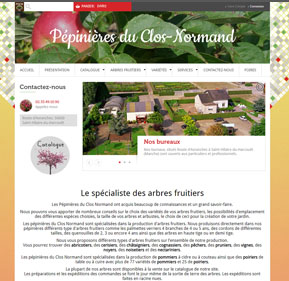
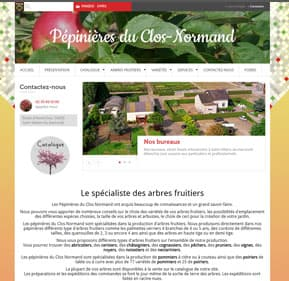
fix: Added Webp sources + compressed images

diff --git a/index.html b/index.html
@@ -99,7 +99,11 @@
     <div class="widget-area">
       <aside class="widget widget-profile">
         <div class="profile-photo">
-          <img src="img/uploads/logo-zenoo-wide.png" alt="Franck Demoute" />
+          <picture>
+            <source srcset="img_webp/uploads/logo-zenoo-wide.webp" type="image/webp">
+            <source srcset="img/uploads/logo-zenoo-wide.png" type="image/png">
+              <img src="img/uploads/logo-zenoo-wide.png" alt="Franck Demoute" />
+          </picture>
         </div>
         <div class="profile-info">
           <h2 class="profile-title">Franck Demoute</h2>
